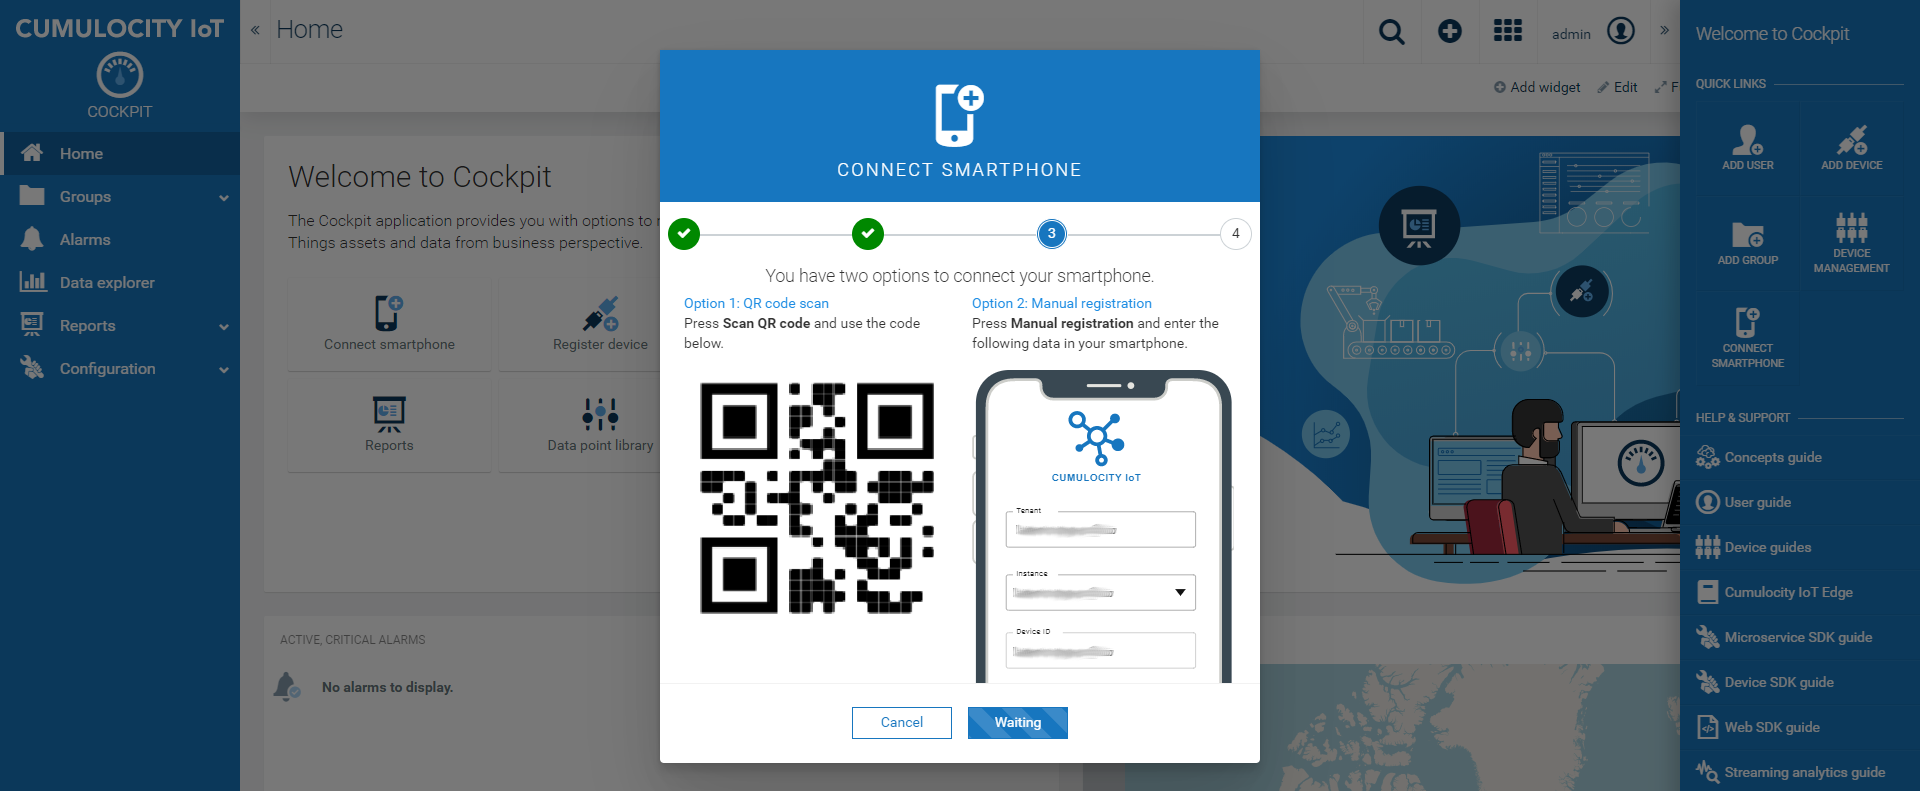
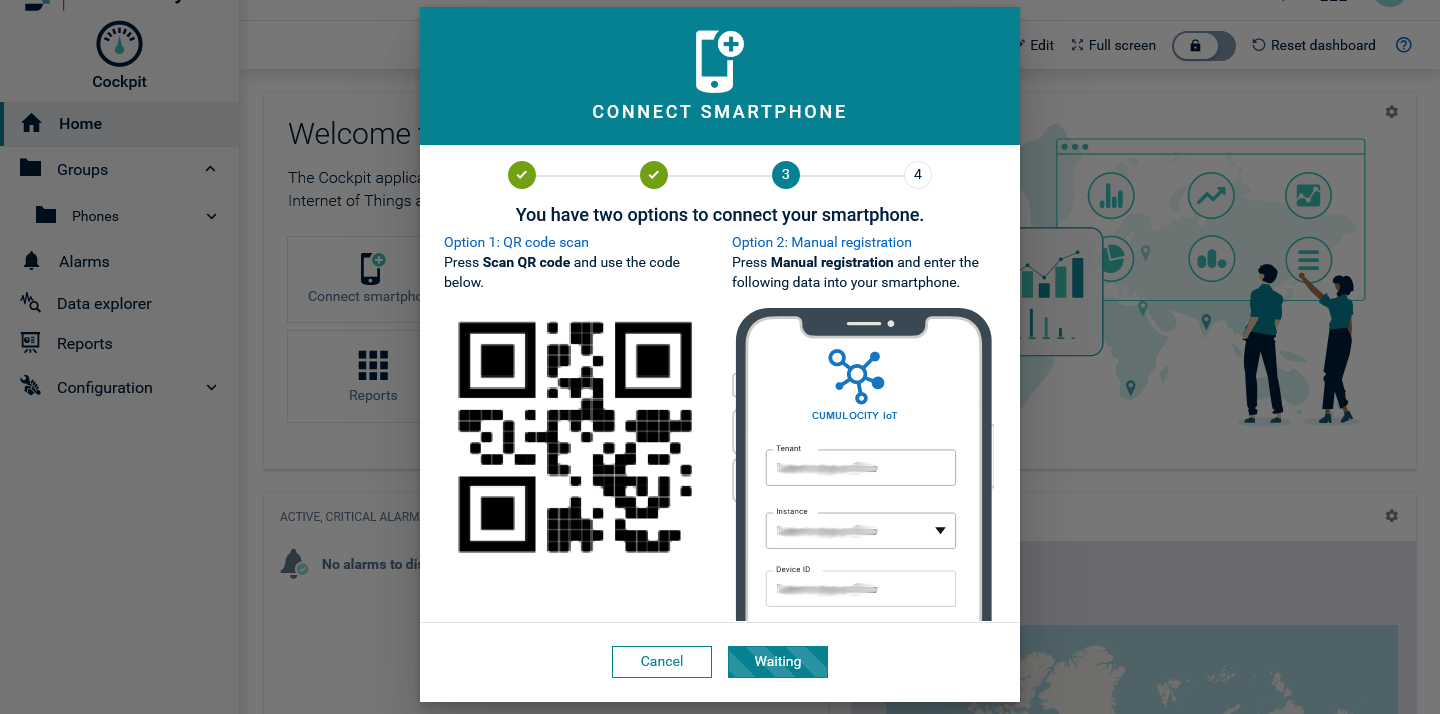
Fisrt pass of changed UI screenshots. Needs also updated text for new app features and one updated iPhone screenshot (csa-available-bluetooth-devices.png)

diff --git a/content/users-guide/sensor-app-bundle/register.md b/content/users-guide/sensor-app-bundle/register.md
@@ -13,7 +13,7 @@ For earlier versions of {{< product-c8y-iot >}}, follow the steps in [Manual reg
 
 1.  On a desktop or laptop computer, open a web browser and log in to your {{< product-c8y-iot >}} tenant. From the Cockpit application, click **Connect Smartphone** in the right drawer or in the Welcome widget.
 
-    ![Cockpit application](/images/users-guide/csa/csa-connect-smartphone-right-drawer.jpg)
+    ![Cockpit application](/images/users-guide/csa/csa-connect-smartphone-right-drawer.png)
 
 2.  Follow the instructions in the wizard to step 3, ensuring that the app is installed on the smartphone.
 
@@ -34,7 +34,7 @@ QR codes not supported by the {{< sensor-app >}} are highlighted using a red reg
 
 1.  On a desktop or laptop computer, open a web browser and log in to your {{< product-c8y-iot >}} tenant. In the Device Management application, select **Devices > Registration** from the navigator.
 
-    ![Manual registration](/images/users-guide/csa/csa-device-registration.jpg)
+    ![Manual registration](/images/users-guide/csa/csa-device-registration.png)
 
 2.  From your smartphone, launch the app and tap **Connect** at the top right of the screen. When the camera opens, tap **Manual registration**.
 

diff --git a/content/users-guide/sensor-app-bundle/device-control.md b/content/users-guide/sensor-app-bundle/device-control.md
@@ -14,7 +14,7 @@ The "Message sending" widget can be used to send simple text notifications to a 
 
 The "Vibration" widget can be used to activate and deactivate the vibration motor on the device. When the vibration switch is activated, the smartphone continuously vibrates until it is switched off again.
 
-![Device widget](/images/users-guide/csa/csa-messaging-and-vibration-widget.jpg)
+![Device widget](/images/users-guide/csa/csa-messaging-and-vibration-widget.png)
 
 {{< c8y-admon-info >}}
 The smartphone must remain connected to {{< product-c8y-iot >}} to receive these commands. On the device's own dashboard, online devices are shown with a green map-marker. You can also determine if the device is connected in the Device Management application. On the **All Devices** page two green arrows indicate that a device is online. Moreover, the individual device info pages contain a "Device status" widget.

diff --git a/content/users-guide/sensor-app-bundle/sending-sensor-data.md b/content/users-guide/sensor-app-bundle/sending-sensor-data.md
@@ -7,7 +7,7 @@ layout: redirect
 
 Measurements from your smartphone, OBD devices and connected Bluetooth sensors are sent to {{< product-c8y-iot >}} automatically as soon as the device is connected or started and as long as the app is in foreground. All measurements of the smartphone sensors are displayed automatically in the device dashboard in {{< product-c8y-iot >}}.
 
-![Device dashboard](/images/users-guide/csa/csa-device-dashboard.jpg)
+![Device dashboard](/images/users-guide/csa/csa-device-dashboard.png)
 
 Various widgets may be used to display the data points. If your smartphone has a gyroscope sensor, a 3D rotation widget depicts the current sensor data for your smartphone's orientation.
 
